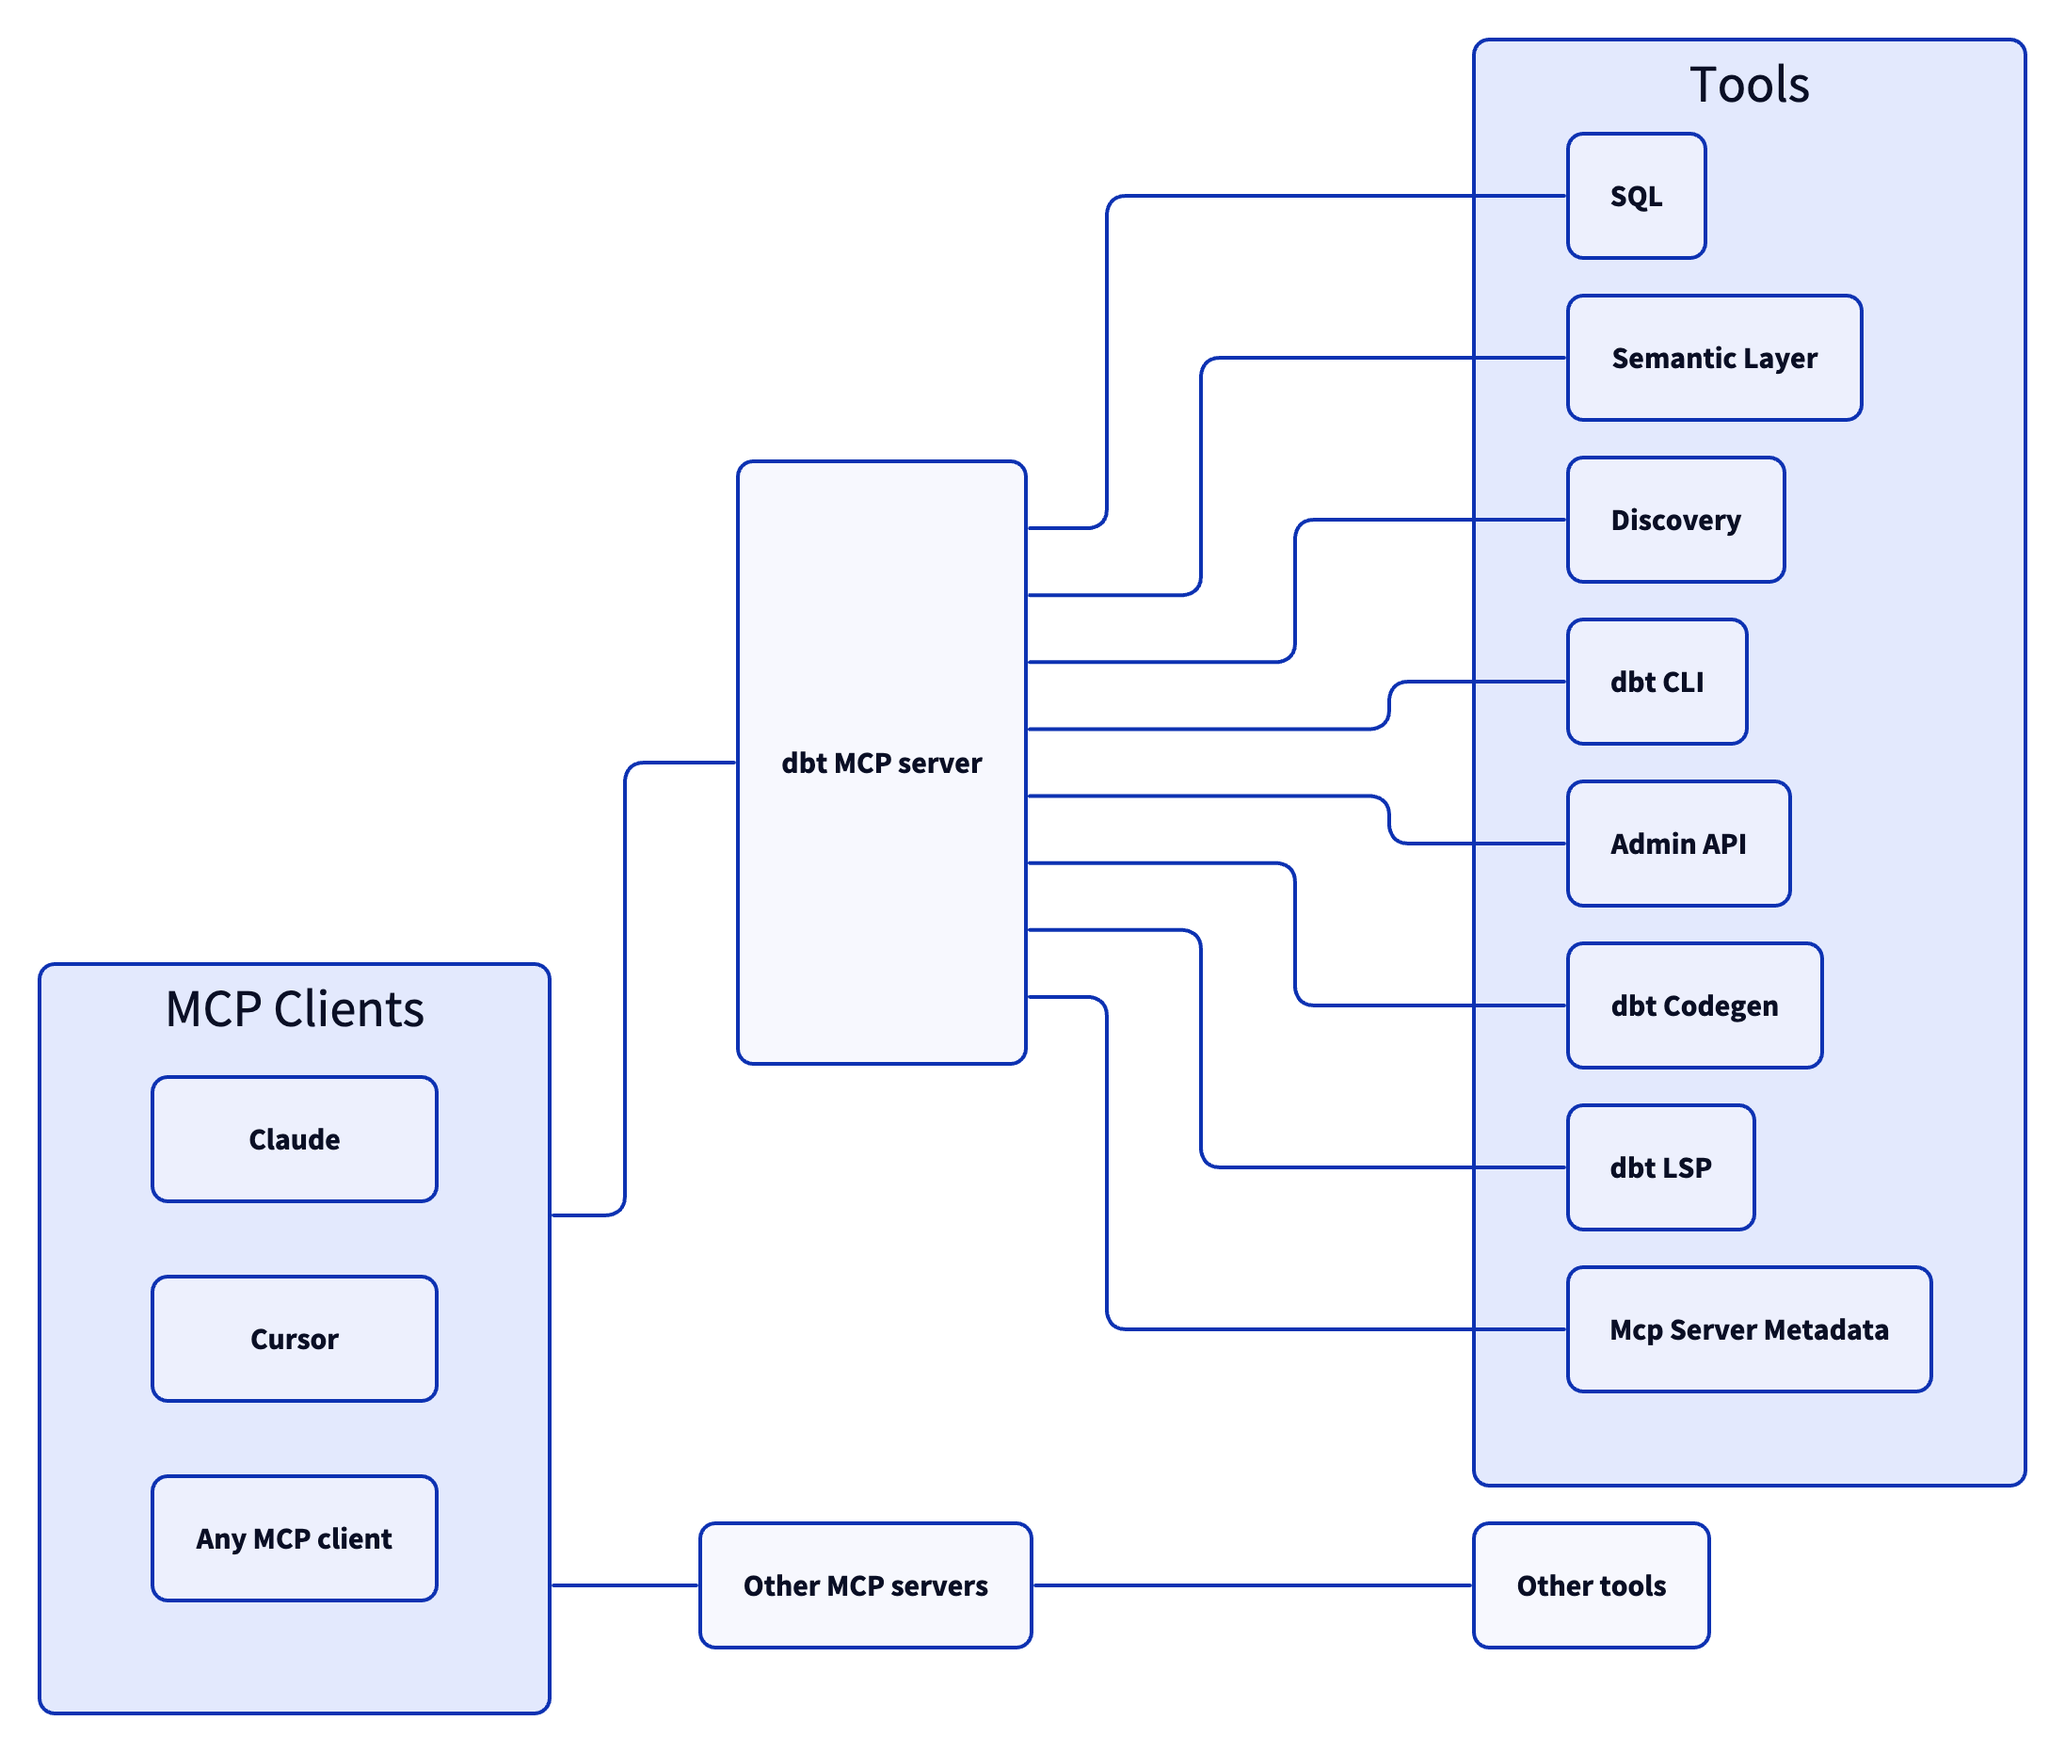
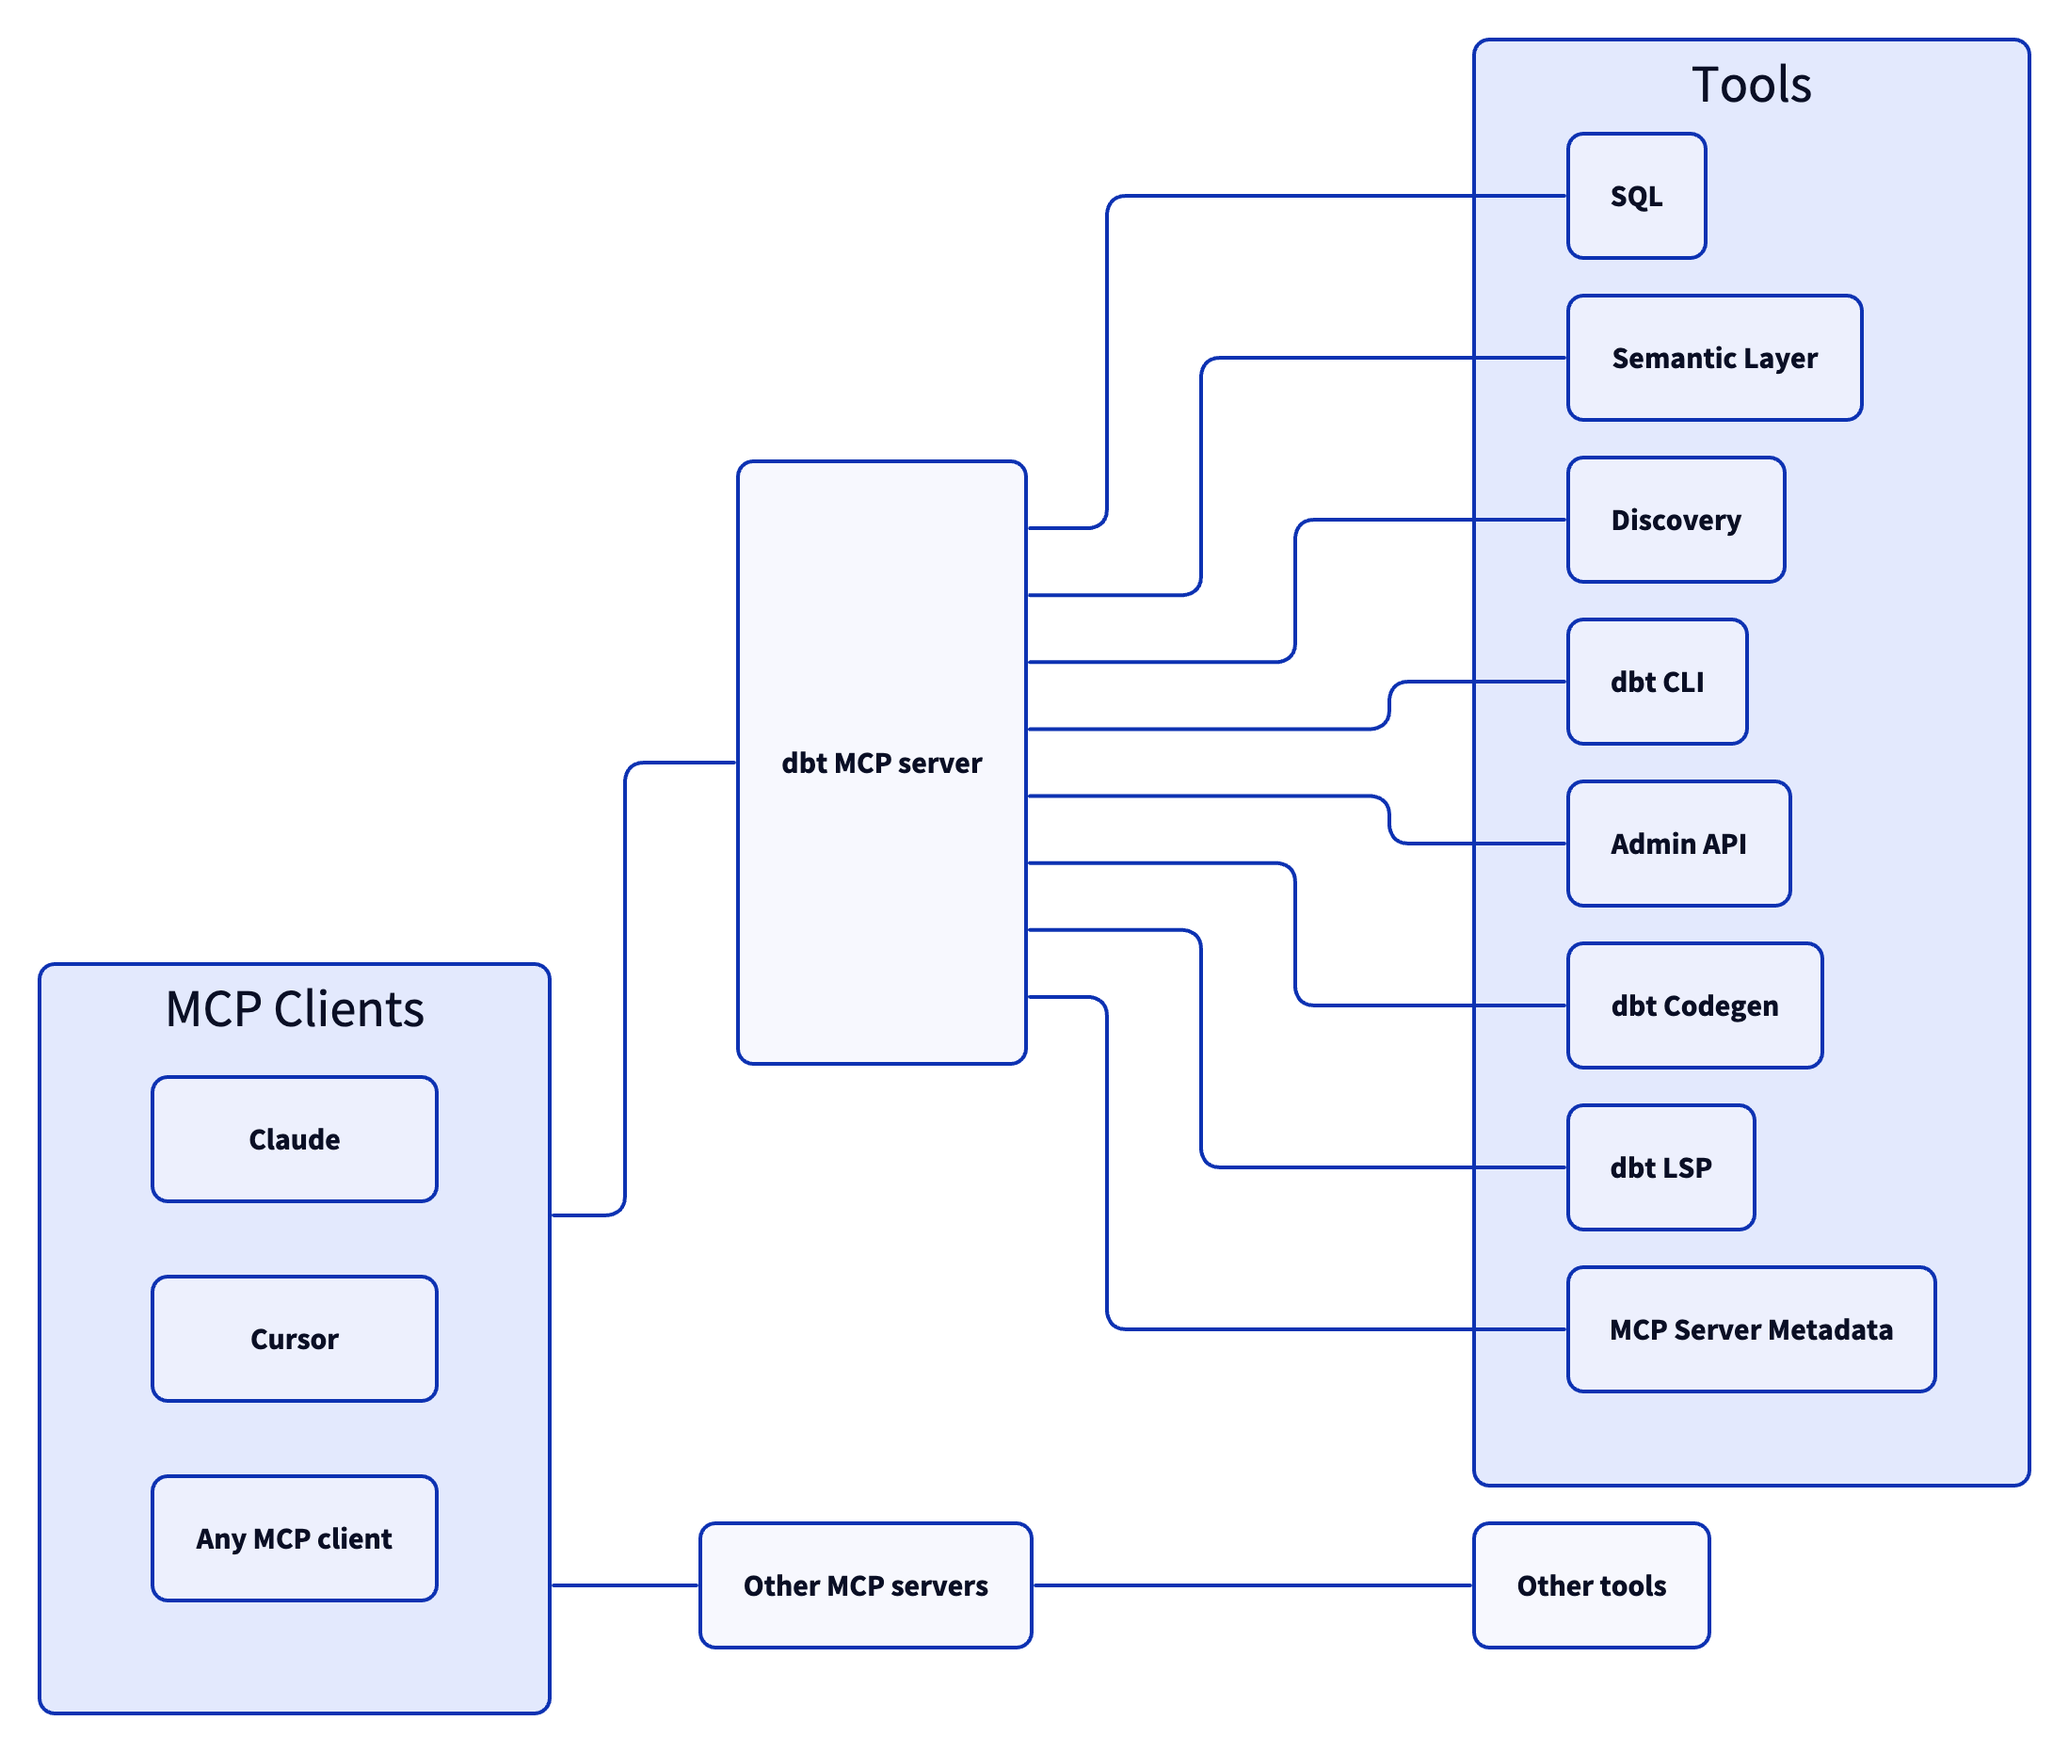
Enhance docs gen script to include d2.png updates / proper MCP casing (#568)
## Summary
<!-- Provide a brief description of the changes in this PR -->
Enhance `docs/generate_docs.py` to include d2.png updates / proper MCP
casing

## What Changed
<!-- Describe the changes made in this PR -->
- "Mcp" --> "MCP" in docs (automatic)
- Include update to `docs/d2.png` IFF `docs/diagram.d2` is automatically
updated
- Prior behavior, a new tool set would automatically populate in the
`diagram.d2` but no updates to `d2.png`
- Now, both `pre-commit` and `task docs:generate` handle the update of
`d2.png` with the addition of new tool sets to the `Toolset` enum

## Why
<!-- Explain the motivation for these changes -->
- Styling/casing of MCP
- Improve automation of docs

## Checklist
- [x] I have performed a self-review of my code
- [ ] I have made corresponding changes to the documentation (in
https://github.com/dbt-labs/docs.getdbt.com) if required -- Mention it
here
- [ ] I have added tests that prove my fix is effective or that my
feature works
- [x] New and existing unit tests pass locally with my changes

## Additional Notes
<!-- Any additional information that would be helpful for reviewers -->

diff --git a/scripts/generate_docs.py b/scripts/generate_docs.py
@@ -2,6 +2,8 @@ import argparse
 import logging
 import re
 import sys
+import subprocess
+import tempfile
 from pathlib import Path
 
 from dbt_mcp.tools.toolsets import toolsets
@@ -11,6 +13,7 @@ logger = logging.getLogger(__name__)
 
 README_PATH = Path(__file__).parents[1] / "README.md"
 DIAGRAM_PATH = Path(__file__).parents[1] / "docs" / "diagram.d2"
+PNG_PATH = Path(__file__).parents[1] / "docs" / "d2.png"
 
 
 def format_toolset_heading(toolset_value: str) -> str:
@@ -26,7 +29,7 @@ def format_toolset_heading(toolset_value: str) -> str:
     text = toolset_value.replace("_", " ").title()
 
     # Uppercase common acronyms
-    text = re.sub(r"\b(Sql|Api|Cli|Lsp)\b", lambda m: m.group(1).upper(), text)
+    text = re.sub(r"\b(Sql|Api|Cli|Lsp|Mcp)\b", lambda m: m.group(1).upper(), text)
 
     # "dbt" stylized as lowercase
     text = re.sub(r"\bDbt\b", "dbt", text)
@@ -112,7 +115,7 @@ def update_readme(check_only: bool = False) -> bool:
         return True
 
 
-def update_d2_diagram(check_only: bool = False) -> bool:
+def update_d2_diagram(check_only: bool = False) -> tuple[bool, bool]:
     """
     Update the tools section in diagram.d2.
 
@@ -120,11 +123,13 @@ def update_d2_diagram(check_only: bool = False) -> bool:
         check_only: If True, only check if update is needed without writing.
 
     Returns:
-        True if diagram is up to date (or was updated), False if update is needed.
+        Tuple of (success, content_changed):
+        - success: True if diagram is up to date (or was updated), False on error.
+        - content_changed: True if diagram content differs from generated content.
     """
     if not DIAGRAM_PATH.exists():
         logger.error(f"diagram.d2 not found at {DIAGRAM_PATH}")
-        return False
+        return False, False
 
     diagram_content = DIAGRAM_PATH.read_text()
     new_tools_section = generate_diagram_tools_section()
@@ -133,29 +138,76 @@ def update_d2_diagram(check_only: bool = False) -> bool:
     pattern = r"tools: Tools \{.*?\n\}"
     if not re.search(pattern, diagram_content, re.DOTALL):
         logger.error("Could not find 'tools: Tools {' section in diagram.d2")
-        return False
+        return False, False
 
     updated_content = re.sub(
         pattern, new_tools_section, diagram_content, flags=re.DOTALL
     )
-    is_up_to_date = diagram_content == updated_content
+    content_changed = diagram_content != updated_content
 
     if check_only:
-        if is_up_to_date:
+        if not content_changed:
             logger.info("✓ diagram.d2 tools section is up to date")
         else:
             logger.error("✗ diagram.d2 tools section is out of date")
-        return is_up_to_date
+        return not content_changed, content_changed
     else:
         DIAGRAM_PATH.write_text(updated_content)
-        status = "was already up to date" if is_up_to_date else "updated successfully"
+        status = "updated successfully" if content_changed else "was already up to date"
         logger.info(f"diagram.d2 tools section {status}")
-        return True
+        return True, content_changed
+
+
+def run_d2_command(output_path: Path) -> bool:
+    """Run d2 to compile diagram.d2 to PNG."""
+    try:
+        result = subprocess.run(
+            ["d2", str(DIAGRAM_PATH), str(output_path), "--pad", "20"],
+            capture_output=True,
+            text=True,
+        )
+        return result.returncode == 0
+    except FileNotFoundError:
+        logger.error("d2 command not found. Install with: brew install d2")
+        return False
+
+
+def update_d2_png(check_only: bool = False) -> bool:
+    """
+    Update/validate d2.png from diagram.d2.
+
+    Args:
+        check_only: If True, only check if PNG matches current diagram.
+
+    Returns:
+        True if PNG is up to date (or was updated), False if check failed.
+    """
+    if check_only:
+        with tempfile.NamedTemporaryFile(suffix=".png", delete=False) as tmp:
+            tmp_path = Path(tmp.name)
+        try:
+            if not run_d2_command(tmp_path):
+                return False
+            is_up_to_date = (
+                PNG_PATH.exists() and PNG_PATH.read_bytes() == tmp_path.read_bytes()
+            )
+            if is_up_to_date:
+                logger.info("✓ d2.png is up to date")
+            else:
+                logger.error("✗ d2.png is out of date")
+            return is_up_to_date
+        finally:
+            tmp_path.unlink(missing_ok=True)
+    else:
+        success = run_d2_command(PNG_PATH)
+        if success:
+            logger.info("d2.png updated")
+        return success
 
 
 def update_all(check_only: bool = False) -> bool:
     """
-    Update both README.md and diagram.d2.
+    Update README.md, diagram.d2, and d2.png.
 
     Args:
         check_only: If True, only check if updates are needed without writing.
@@ -164,16 +216,21 @@ def update_all(check_only: bool = False) -> bool:
         True if all docs are up to date (or were updated), False if updates needed.
     """
     readme_ok = update_readme(check_only)
-    diagram_ok = update_d2_diagram(check_only)
+    diagram_ok, diagram_changed = update_d2_diagram(check_only)
 
-    if check_only and not (readme_ok and diagram_ok):
-        logger.error("\nRun: uv run scripts/generate_docs.py")
+    # Only update/check PNG if diagram.d2 changed (new toolset added)
+    png_ok = True
+    if diagram_changed:
+        png_ok = update_d2_png(check_only)
 
-    return readme_ok and diagram_ok
+    all_ok = readme_ok and diagram_ok and png_ok
+    if check_only and not all_ok:
+        logger.error("\nRun: task docs:generate to update the documentation.")
+
+    return all_ok
 
 
 def main():
-    """Main entry point."""
     parser = argparse.ArgumentParser(
         description="Generate or validate documentation from toolsets"
     )

diff --git a/README.md b/README.md
@@ -90,7 +90,7 @@ The dbt MCP server architecture allows for your agent to connect to a variety of
 - `fusion.get_column_lineage`
 - `get_column_lineage`
 
-### Mcp Server Metadata
+### MCP Server Metadata
 - `get_mcp_server_version`
 
 
